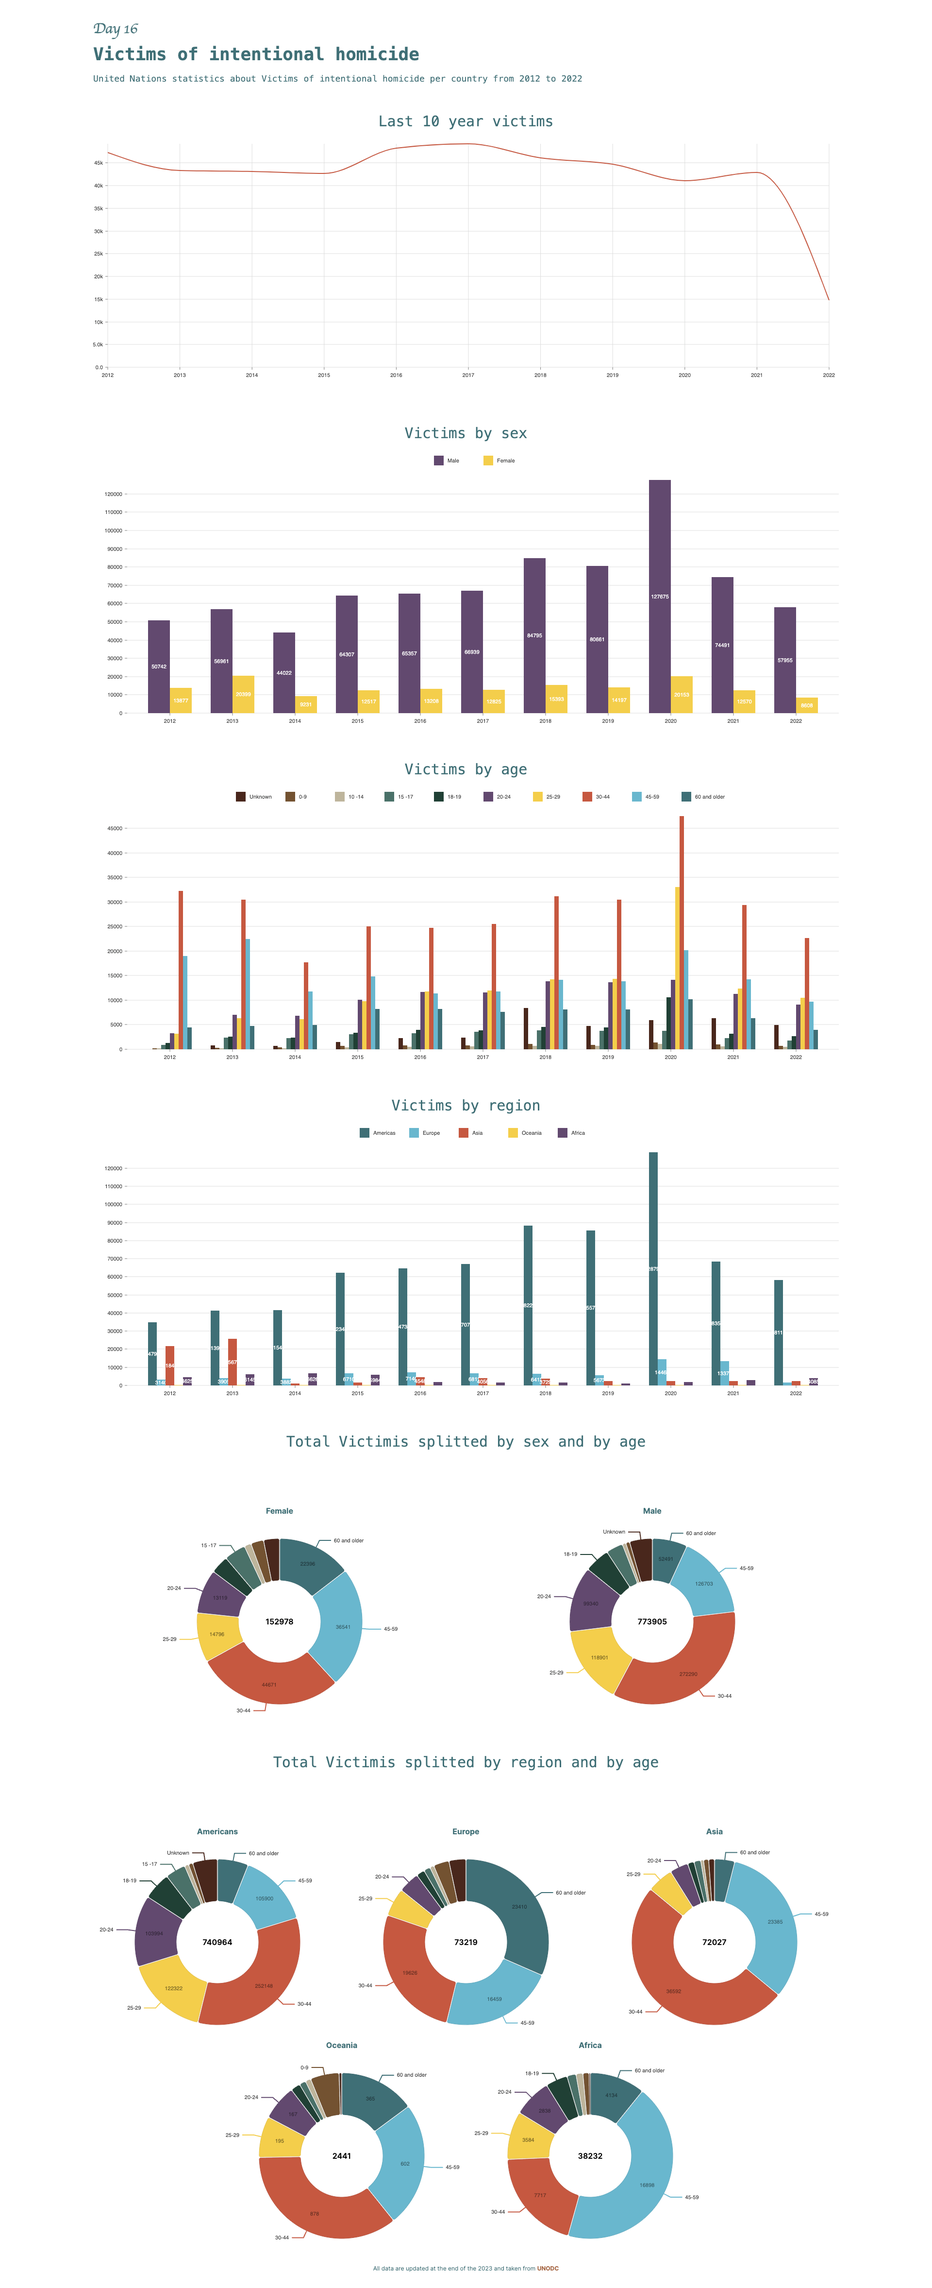
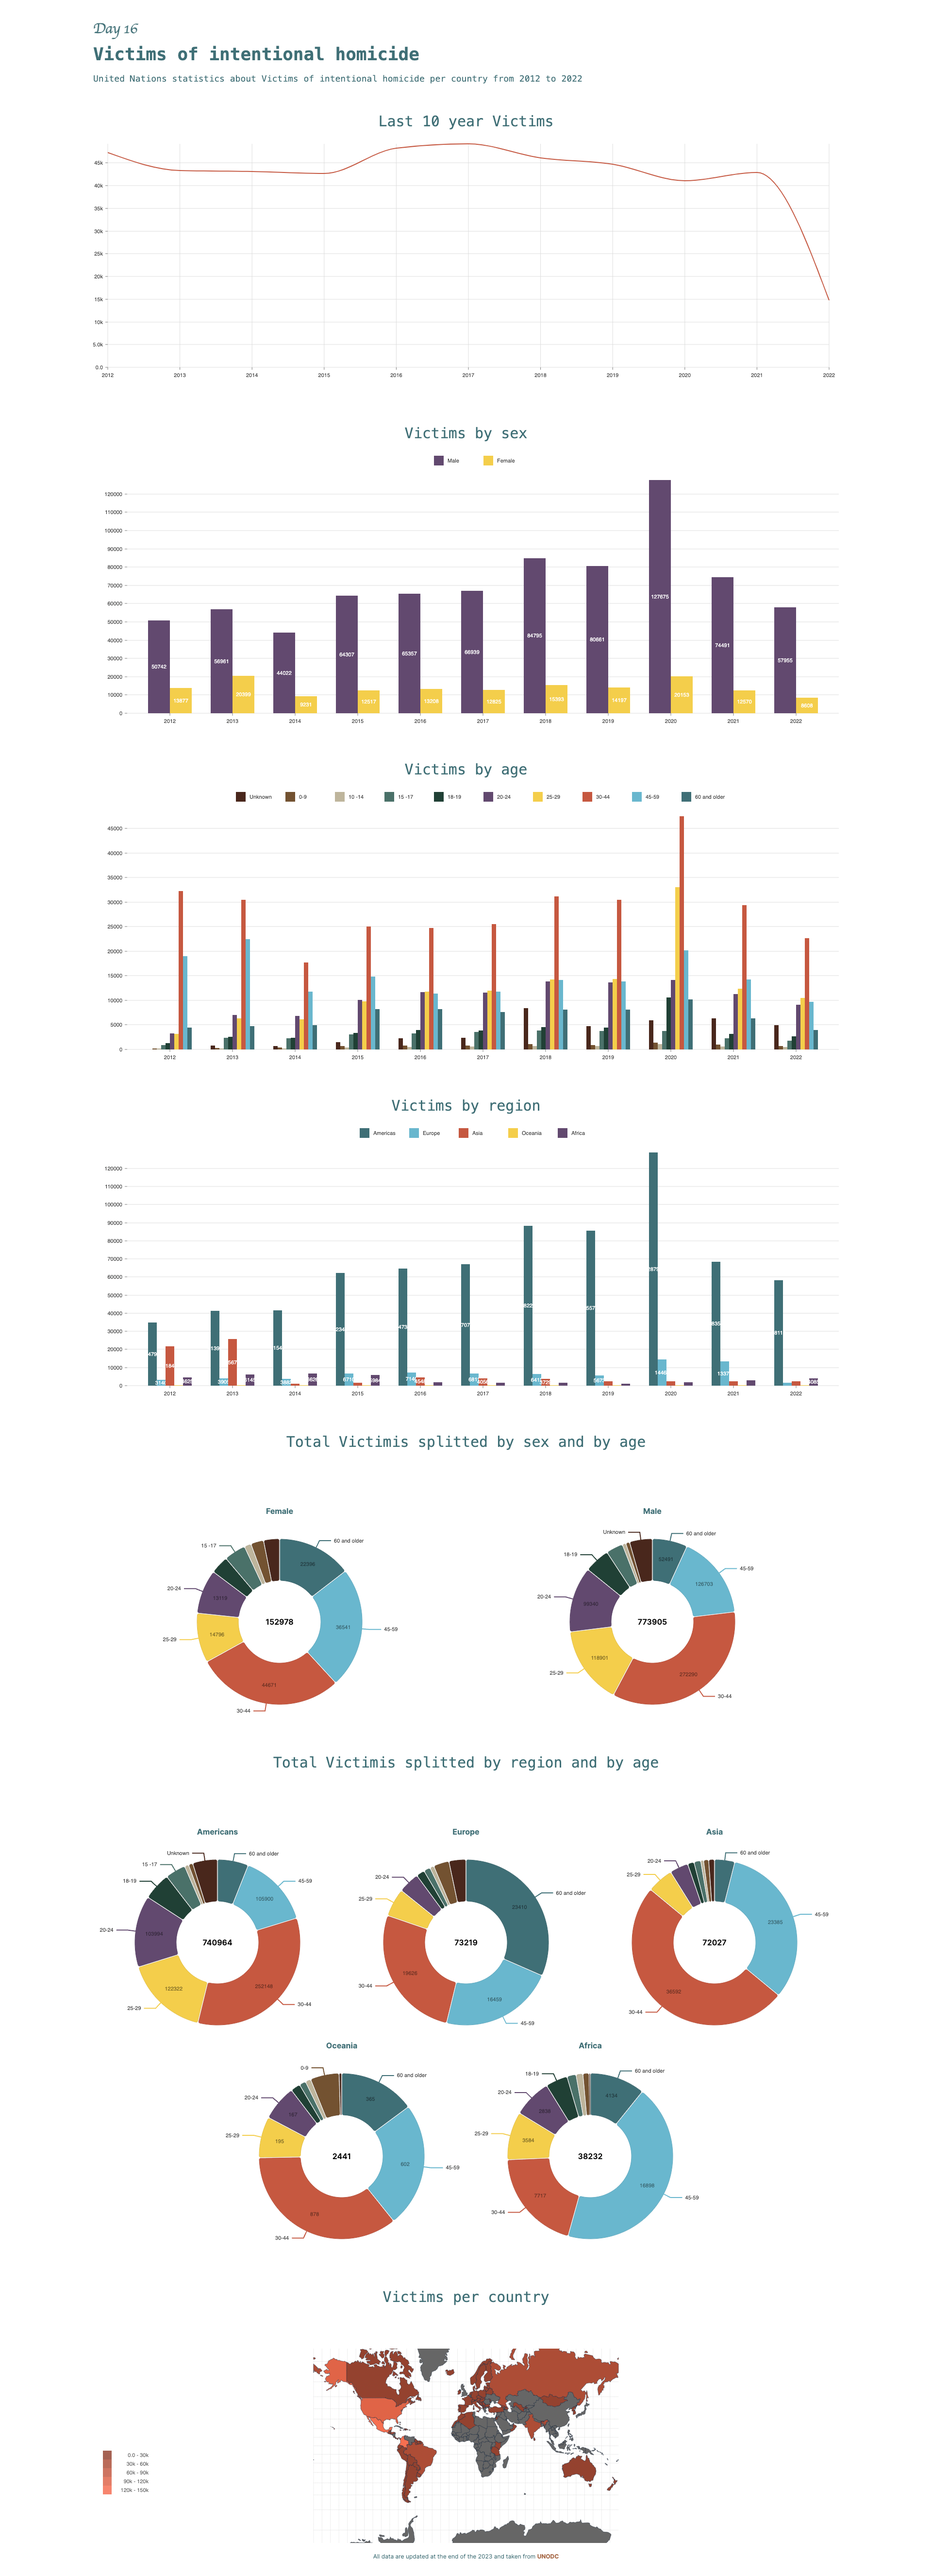
feat(16): addded country split

diff --git a/src/app/day/16/page.jsx b/src/app/day/16/page.jsx
@@ -1,12 +1,14 @@
 import './page.css';
 
 import NivoBar from '@internal/components/Charts/Nivo/Bar';
+import NivoChoropleth from '@internal/components/Charts/Nivo/Choropleth';
 import NivoLine from '@internal/components/Charts/Nivo/Line';
 import NivoPie from '@internal/components/Charts/Nivo/Pie';
 
 import { infos } from './config';
 import {
   byAge,
+  byCountry,
   byRegion,
   byRegionAndAge,
   bySex,
@@ -25,7 +27,7 @@ const Page16 = () => {
       </section>
       <section id='total' className='mt-10'>
         <h3 className='py-2 font-mono text-3xl max-md:text-2xl text-center flex max-md:flex-col justify-center items-center'>
-          Last 10 year victims
+          Last 10 year Victims
         </h3>
         <div className='mb-[20px] flex h-[550px] w-full justify-center max-md:h-[300px] max-xl:h-[500px]'>
           <NivoLine
@@ -321,6 +323,19 @@ const Page16 = () => {
               ]}
             />
           </div>
+        </div>
+      </section>
+      <section id='map' className='mt-10'>
+        <h3 className='py-2 font-mono text-3xl max-md:text-2xl text-center flex max-md:flex-col justify-center items-center mb-20'>
+          Victims per country
+        </h3>
+        <div className='mb-[20px] flex h-[400px] w-full justify-center'>
+          <NivoChoropleth
+            data={byCountry}
+            colors={['#94422F', '#AD4D37', '#C65840', '#E06448', '#FA6F50']}
+            valueFormat='.2s'
+            domain={[0, 150000]}
+          />
         </div>
       </section>
       <p className='text-center text-xs'>

diff --git a/src/app/day/16/utils/getParsedData.js b/src/app/day/16/utils/getParsedData.js
@@ -243,3 +243,23 @@ export const byRegionAndAge = {
     }, [])
     .reverse(),
 };
+
+export const byCountry = rawValues.reduce((acc, curr) => {
+  if (curr.age === 'Total') return acc;
+  const foundEntry = acc.findIndex((el) => el.id === curr.isocode);
+  if (foundEntry !== -1) {
+    acc[foundEntry].value += Math.round(
+      Number(curr.value ? `${curr.value}`.replace(/[,]/g, '.') : 0)
+    );
+  } else {
+    const newEntry = {
+      id: curr.isocode,
+      value: Math.round(
+        Number(curr.value ? `${curr.value}`.replace(/[,]/g, '.') : 0)
+      ),
+      label: curr.country,
+    };
+    acc.push(newEntry);
+  }
+  return acc;
+}, []);

diff --git a/src/components/Charts/Nivo/Bar.jsx b/src/components/Charts/Nivo/Bar.jsx
@@ -28,7 +28,6 @@ const NivoBar = ({
     },
   },
 }) => {
-  console.log(data);
   const { isSmallScreen } = useScreenDetect();
   theme.text.fontSize = isSmallScreen ? 8 : theme.text.fontSize;
   const xAxisDetail = noX
